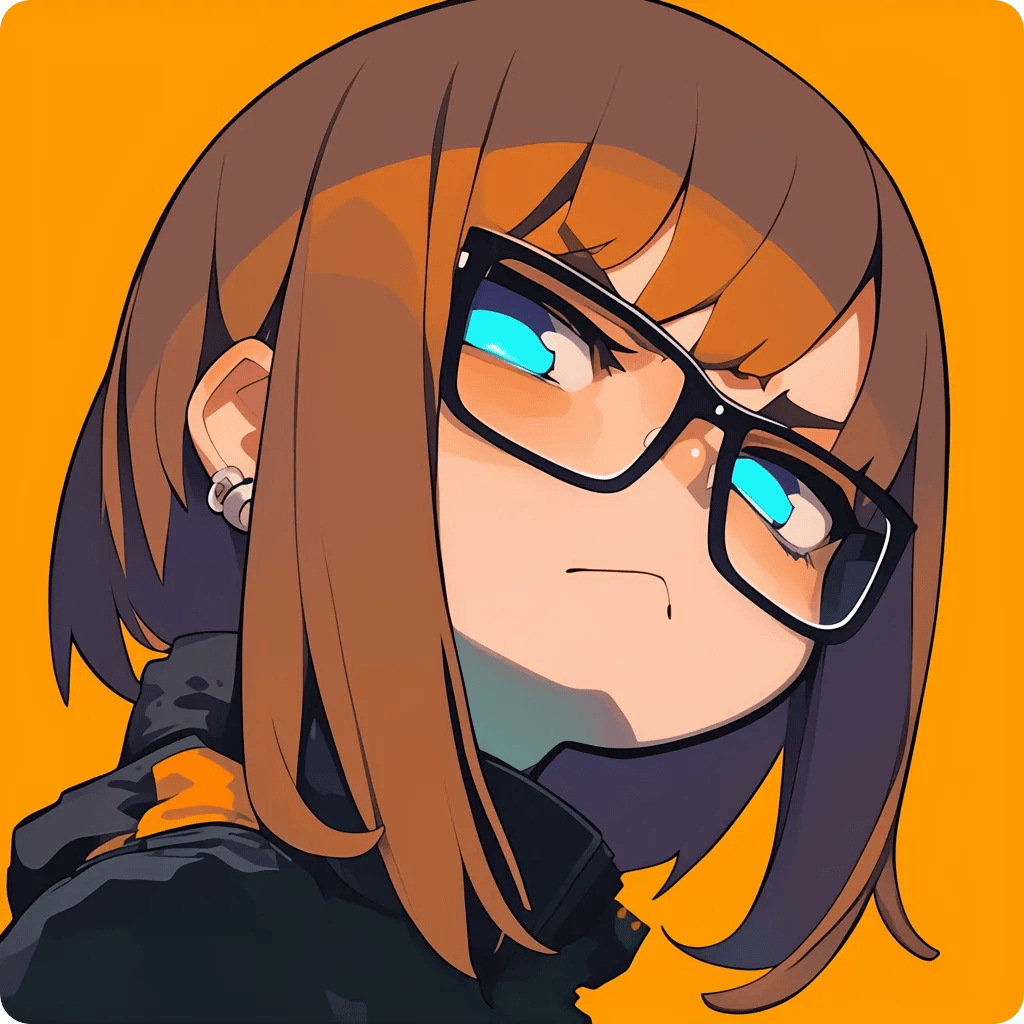
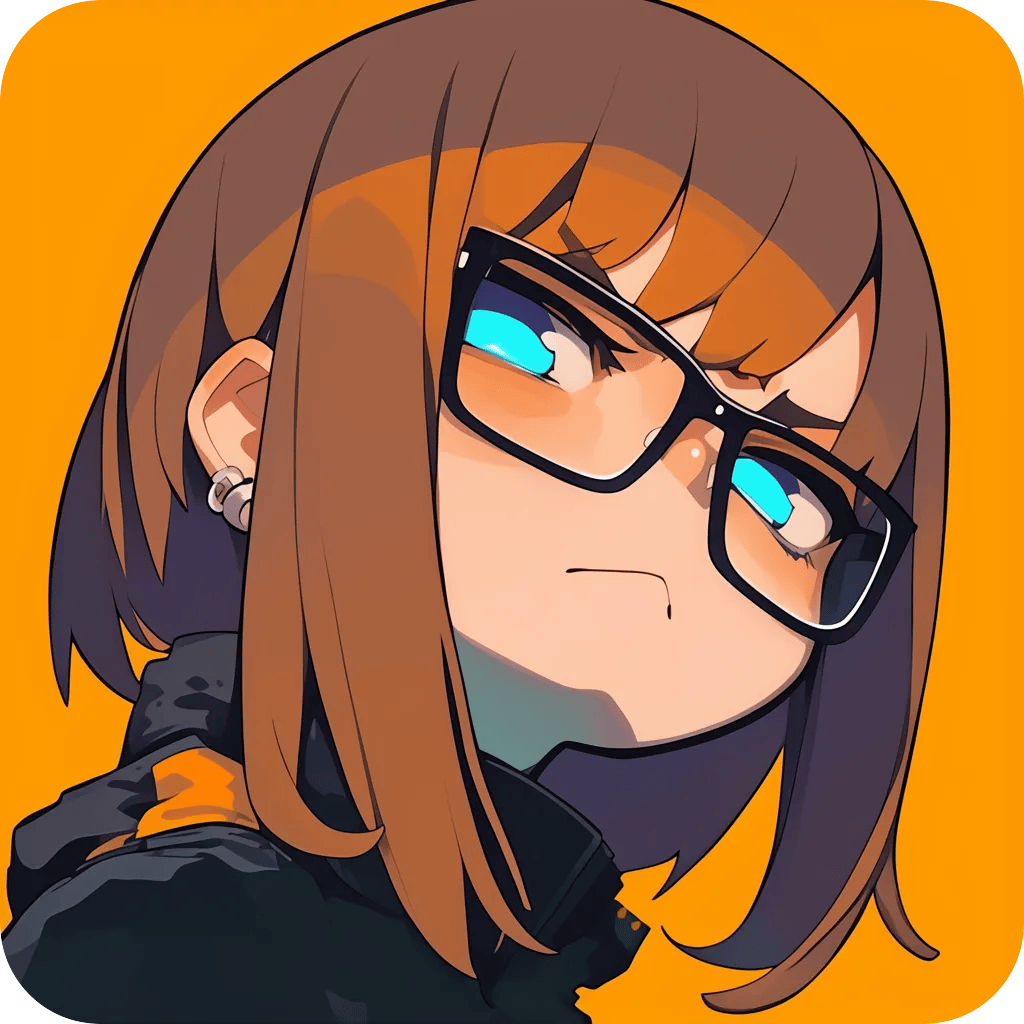
Pull

diff --git a/.vitepress/theme/Layout.vue b/.vitepress/theme/Layout.vue
@@ -1,0 +1,72 @@
+<!-- 官方的外观切换代码：https://vitepress.dev/zh/guide/extending-default-theme#on-appearance-toggle -->
+<script setup lang="ts">
+import { useData } from 'vitepress'
+import DefaultTheme from 'vitepress/theme'
+import { nextTick, provide } from 'vue'
+
+const { isDark } = useData()
+
+const enableTransitions = () =>
+  'startViewTransition' in document &&
+  window.matchMedia('(prefers-reduced-motion: no-preference)').matches
+
+provide('toggle-appearance', async ({ clientX: x, clientY: y }: MouseEvent) => {
+  if (!enableTransitions()) {
+    isDark.value = !isDark.value
+    return
+  }
+
+  const clipPath = [
+    `circle(0px at ${x}px ${y}px)`,
+    `circle(${Math.hypot(
+      Math.max(x, innerWidth - x),
+      Math.max(y, innerHeight - y)
+    )}px at ${x}px ${y}px)`
+  ]
+
+  await document.startViewTransition(async () => {
+    isDark.value = !isDark.value
+    await nextTick()
+  }).ready
+
+  document.documentElement.animate(
+    { clipPath: isDark.value ? clipPath.reverse() : clipPath },
+    {
+      duration: 300,
+      easing: 'ease-in',
+      fill: 'forwards',
+      pseudoElement: `::view-transition-${isDark.value ? 'old' : 'new'}(root)`
+    }
+  )
+})
+</script>
+
+<template>
+  <DefaultTheme.Layout />
+</template>
+
+<style>
+::view-transition-old(root),
+::view-transition-new(root) {
+  animation: none;
+  mix-blend-mode: normal;
+}
+
+::view-transition-old(root),
+.dark::view-transition-new(root) {
+  z-index: 1;
+}
+
+::view-transition-new(root),
+.dark::view-transition-old(root) {
+  z-index: 9999;
+}
+
+.VPSwitchAppearance {
+  width: 22px !important;
+}
+
+.VPSwitchAppearance .check {
+  transform: none !important;
+}
+</style>

diff --git a/en/index.md b/en/index.md
@@ -27,4 +27,29 @@ features:
     details: "Master of all: Image Generation (Nano Banana / Doubao / Grok / Flux), Music Composition (Suno / MiniMax), and Video Generation (Wan / hailuo / Seedance)."
   - title: "🎭 Tavern Character Cards"
     details: "Play Tavern directly in Discord! Full support for SillyTavern, including presets, world books, and memory systems. (Respecting the Tavern ecosystem: character cards are only visible to yourself and can be deleted at any time.)"
+
+  # 网页元数据 (SEO)
+head:
+- - meta
+  - property: og:type
+    content: website
+- - meta
+  - property: og:title
+    content: Steins;Inn 次元旅社
+- - meta
+  - property: og:image
+    content: https://steinsinn.pages.dev/images/r-1024x1024.png
+- - meta
+  - property: og:url
+    content: https://steinsinn.pages.dev/
+- - meta
+  - name: title
+    content: Steins;Inn 次元旅社
+- - meta
+  - name: twitter:card
+    content: https://steinsinn.pages.dev/images/r-1024x1024.png
+- - link
+  - rel: icon
+    type: image/icon
+    href: favicon.ico
 ---

diff --git a/index.md b/index.md
@@ -27,4 +27,29 @@ features:
     details: "生图（Nano Banana / 豆包 / Grok / Flux）、作曲（Suno / MiniMax）、生成视频（Wan / hailuo / Seedance），样样精通"
   - title: "🎭 酒馆角色卡"
     details: "直接在 Discord 里玩酒馆！完整支持 SillyTavern，预设、世界书、记忆系统全都有。（尊重酒馆生态：角色卡仅自己可见，随时可删。）"
+
+    # 网页元数据 (SEO)
+head:
+- - meta
+  - property: og:type
+    content: website
+- - meta
+  - property: og:title
+    content: Steins;Inn 次元旅社
+- - meta
+  - property: og:image
+    content: https://steinsinn.pages.dev/images/r-1024x1024.png
+- - meta
+  - property: og:url
+    content: https://steinsinn.pages.dev/
+- - meta
+  - name: title
+    content: Steins;Inn 次元旅社
+- - meta
+  - name: twitter:card
+    content: https://steinsinn.pages.dev/images/r-1024x1024.png
+- - link
+  - rel: icon
+    type: image/icon
+    href: favicon.ico
 ---

diff --git a/en/faq.md b/en/faq.md
@@ -1,0 +1,1 @@
+# Questions

diff --git a/faq.md b/faq.md
@@ -1,0 +1,1 @@
+# 问题

diff --git a/intro.md b/intro.md
@@ -1,0 +1,1 @@
+# 新客必看